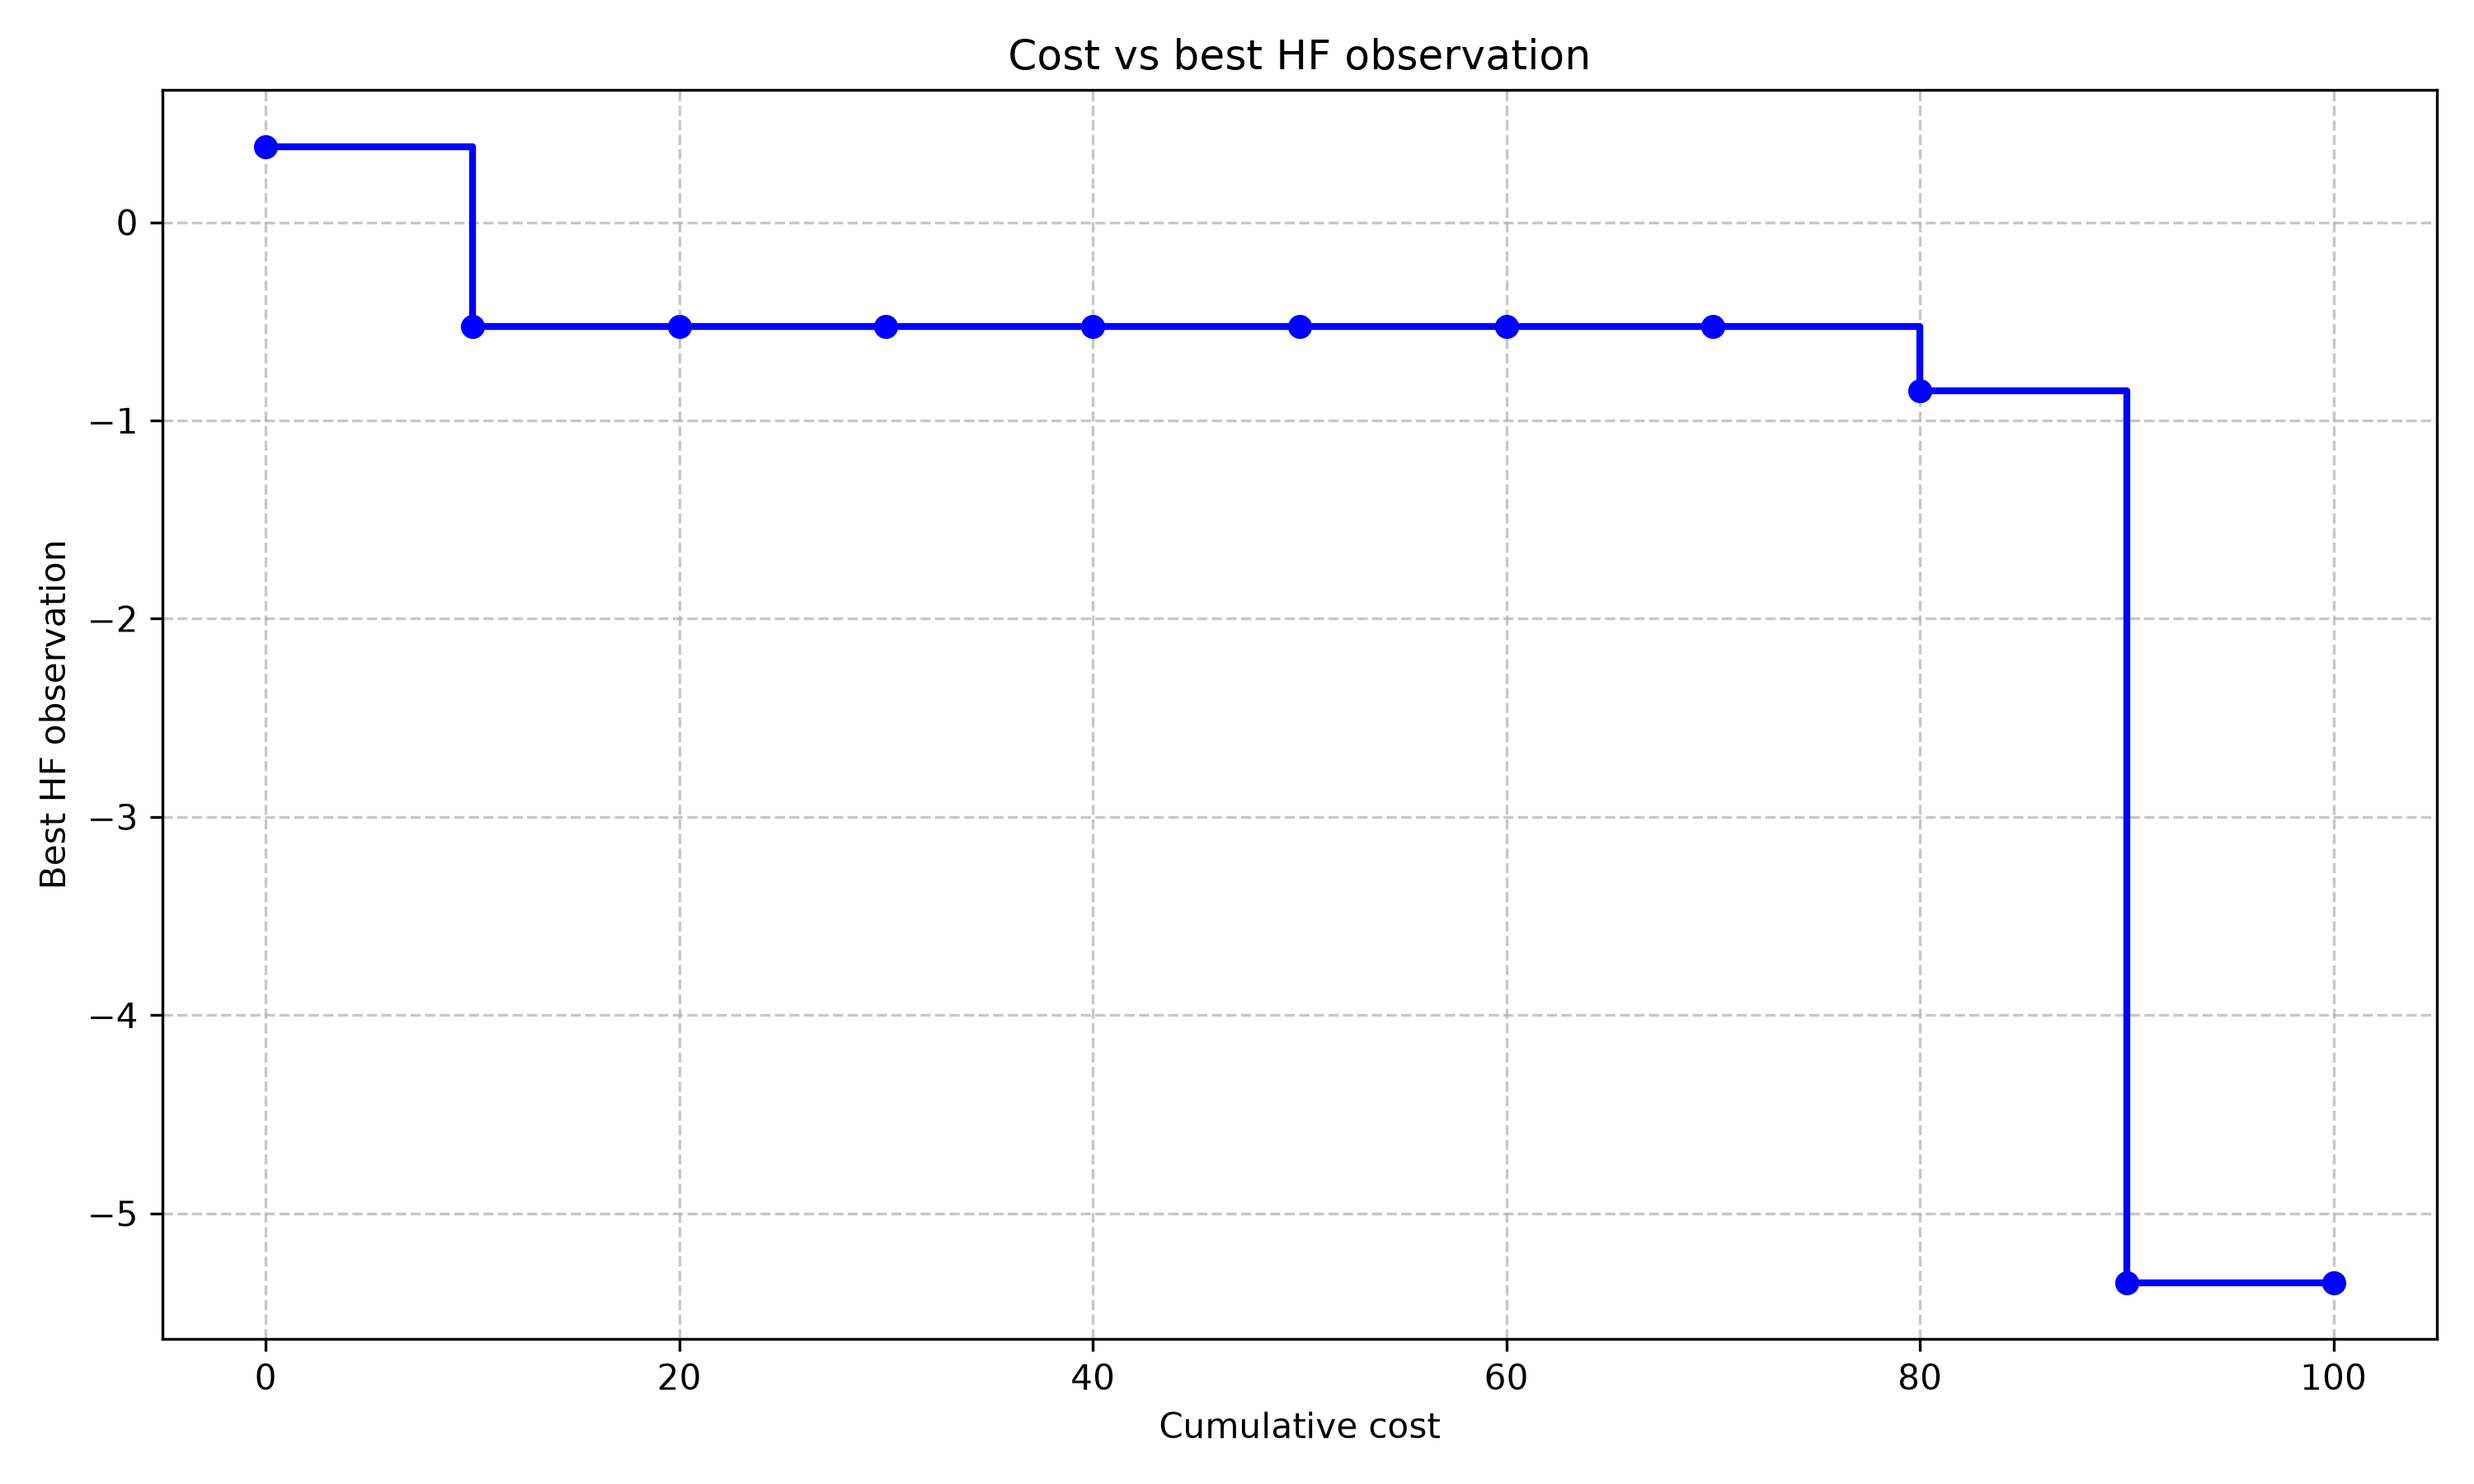
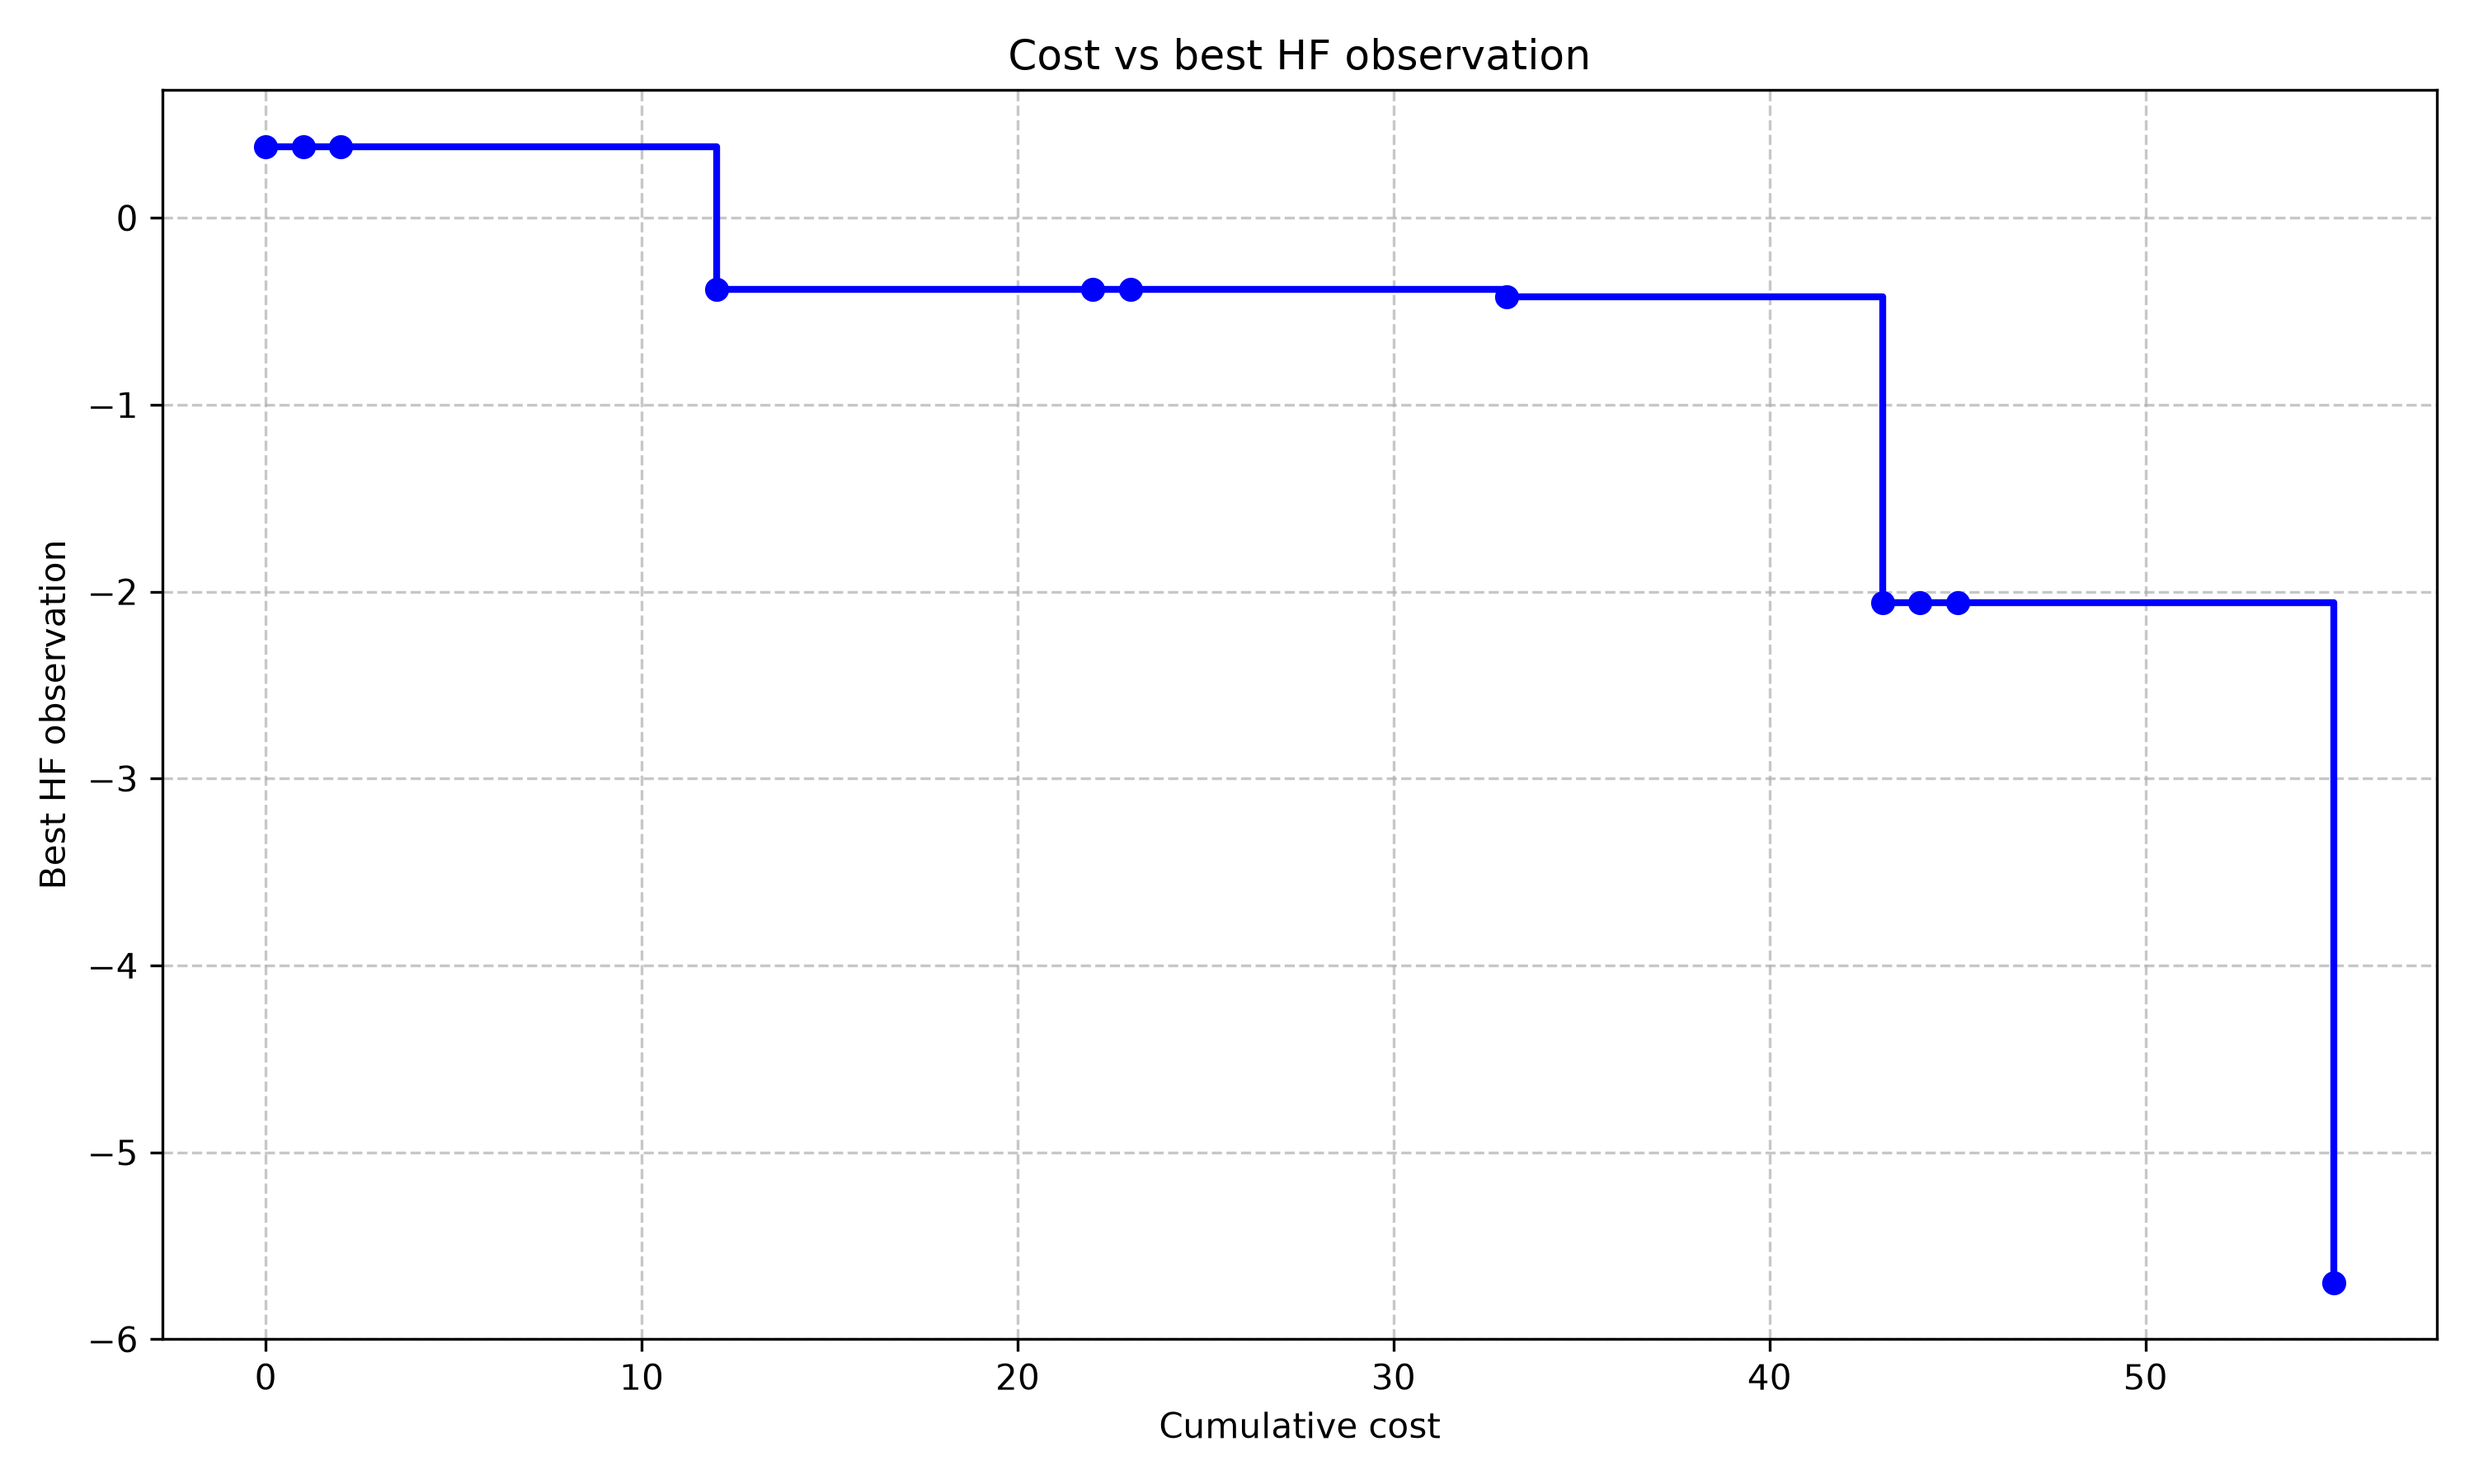
modified:   mfego/convergence_plot.png modified:   mfego/ego_backup.json modified:   mfego/response_1d.png modified:   mfego/src/__pycache__/kernels.cpython-314.pyc modified:   mfego/src/kernels.py modified:   mfego/src/visualization.py

diff --git a/mfego/src/visualization.py b/mfego/src/visualization.py
@@ -35,29 +35,34 @@ class ModelVisualizer:
         model = MultifidelityModel(self.num_levels, SquaredExponentialKernel)
         model.rhos = self.state.get("rhos", [1.0] * (self.num_levels - 1))
 
+        # Rebuild each GP with the loaded data level by level
         for l in range(self.num_levels):
             level_str = str(l + 1)
             x_train = np.array(self.state["X_dict"][level_str])
-            y_train = np.array(self.state["Y_dict"][level_str])
-
-            gp = model.gps[l]
-            gp.x_train = x_train
-            gp.y_train = np.squeeze(y_train)
+            y_train_raw = np.array(self.state["Y_dict"][level_str])
 
             # Inject gemoetrical hyperparams
             gp_params = np.array(self.state["gp_params"][l])
-            gp.kernel.set_params(gp_params)
+            model.gps[l].kernel.set_params(gp_params)
+            model.gps[l].noise = self.state.get("noises", [1e-6] * self.num_levels)[l]
 
-            # Noise
-            gp.noise = self.state.get("noises", [1e-6] * self.num_levels)[l]
+            if l == 0:
+                target_y = y_train_raw
+            else: # this is essentially Eq. 13 of the reference article
+                rho = model.rhos[l - 1]
+                f_prev = np.array([model._predict_up_to(x.reshape(1, -1), l)[0] for x in x_train])
+                target_y = y_train_raw - rho * f_prev
+
+            gp = model.gps[l]
+            gp.x_train = x_train
+            gp.y_train = np.squeeze(target_y)
 
             # Inverse matrix recalculation
             covariance_matrix = gp.kernel.get_covariance_matrix(gp.x_train) \
                                        + gp.noise * np.eye(len(gp.x_train))
-
             gp.l_chol = np.linalg.cholesky(covariance_matrix)
-            gp.k_inv = np.linalg.solve(gp.l_chol.T, 
-                                       np.linalg.solve(gp.l_chol, 
+            gp.k_inv = np.linalg.solve(gp.l_chol.T,
+                                       np.linalg.solve(gp.l_chol,
                                       np.eye(len(gp.x_train))))
 
         return model

diff --git a/mfego/src/kernels.py b/mfego/src/kernels.py
@@ -47,7 +47,7 @@ def base_covariance_matrix(x: np.ndarray, theta_l: np.ndarray) -> np.ndarray:
             covariance_matrix[i, j] = val
             covariance_matrix[j, i] = val
 
-            return covariance_matrix
+    return covariance_matrix
 # 3/3 ---------------------------------------------------------------------------------------------
 def k_l_vector(x: np.ndarray, x_train: np.ndarray, theta_l: np.ndarray) -> np.ndarray:
     """
